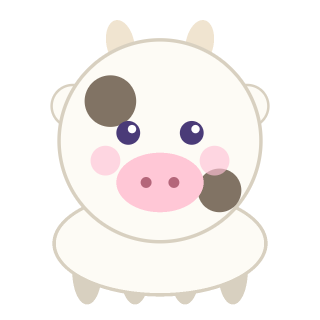
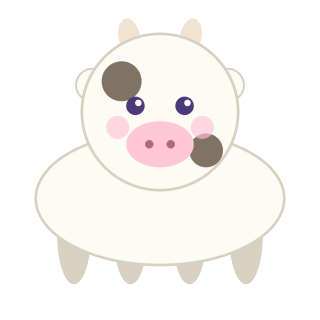
Rebalance animal head/body proportions toward plausible
Feedback: still too far from realistic - the huge head vs. tiny body
read as toy-like rather than a creature that could plausibly exist,
even accounting for the intentionally deformed/cute style.

Shrank the head (r 0.31->0.24 of canvas size) and significantly grew
the body and legs in drawQuadrupedBody() (torso width headR*1.05->1.6,
height *0.5->0.85, leg length *0.34->0.65), so the figure now reads as
a properly-proportioned animal with a face on top, rather than a giant
head with a token body stub underneath. Still stylized/rounded, just
with a head:body ratio that feels believable.

Regenerated all 9 animal PNGs. Bumped sw.js CACHE_VERSION to v29.

Changed region(s): [[0.0938, 0.0625, 0.9062, 0.9688], [0.8438, 0.5312, 0.875, 0.5625], [0.125, 0.5312, 0.1562, 0.5625]]

diff --git a/tools/generate-animals.js b/tools/generate-animals.js
@@ -42,16 +42,20 @@ function drawBlush(cv, cx, cy, r, color = '#FFB0C8') {
 // used for the mascot cast (tools/generate-characters.js) - the mascots are
 // guide characters that make sense standing like a person, but the animal
 // roster should look like actual animals (a sheep standing on four legs,
-// not a sheep standing on two). Legs are drawn first so the torso overlaps
-// their tops and only the lower "foot" ends peek out below the body.
+// not a sheep standing on two). Proportioned so the head no longer
+// dominates the whole figure - still a deformed/cute style, but closer to
+// a head:body ratio a real animal could plausibly have, per feedback that
+// the earlier huge-head/tiny-body look read as a toy rather than a
+// creature. Legs are drawn first so the torso overlaps their tops and only
+// the lower "foot" ends peek out below the body.
 function drawQuadrupedBody(cv, cx, headCy, headR, bodyColor, outlineColor, footColor) {
-  const neckY = headCy + headR * 0.76;
-  const bodyRx = headR * 1.05;
-  const bodyRy = headR * 0.5;
-  const bodyCy = neckY + bodyRy * 0.55;
+  const neckY = headCy + headR * 0.7;
+  const bodyRx = headR * 1.6;
+  const bodyRy = headR * 0.85;
+  const bodyCy = neckY + bodyRy * 0.5;
 
-  const legRx = headR * 0.15;
-  const legRy = headR * 0.34;
+  const legRx = headR * 0.22;
+  const legRy = headR * 0.65;
   const legCy = bodyCy + bodyRy * 0.55;
   [-0.7, -0.24, 0.24, 0.7].forEach((fx) => {
     fillEllipse(cv, cx + fx * bodyRx, legCy, legRx, legRy, 0, footColor);
@@ -65,7 +69,7 @@ function drawQuadrupedBody(cv, cx, headCy, headR, bodyColor, outlineColor, footC
 
 function drawDog(size) {
   const cv = makeCanvas(size, size);
-  const cx = size * 0.5, cy = size * 0.44, r = size * 0.31;
+  const cx = size * 0.5, cy = size * 0.35, r = size * 0.24;
   const fur = '#E8B372', outline = '#C9925A', earColor = '#C9925A', snoutColor = '#FBEBD8';
 
   drawQuadrupedBody(cv, cx, cy, r, fur, outline, outline);
@@ -86,7 +90,7 @@ function drawDog(size) {
 
 function drawCat(size) {
   const cv = makeCanvas(size, size);
-  const cx = size * 0.5, cy = size * 0.44, r = size * 0.31;
+  const cx = size * 0.5, cy = size * 0.35, r = size * 0.24;
   const fur = '#FFEFD9', outline = '#E9C9A0', patch = '#F4A94F';
 
   drawQuadrupedBody(cv, cx, cy, r, fur, outline, outline);
@@ -118,7 +122,7 @@ function drawCat(size) {
 
 function drawCow(size) {
   const cv = makeCanvas(size, size);
-  const cx = size * 0.5, cy = size * 0.44, r = size * 0.31;
+  const cx = size * 0.5, cy = size * 0.35, r = size * 0.24;
   const fur = '#FDFBF5', outline = '#D8D0C0', patch = '#6B5B4A', snoutColor = '#FFC7D6', hornColor = '#F0E4D0';
 
   drawQuadrupedBody(cv, cx, cy, r, fur, outline, outline);
@@ -143,7 +147,7 @@ function drawCow(size) {
 
 function drawFrog(size) {
   const cv = makeCanvas(size, size);
-  const cx = size * 0.5, cy = size * 0.46, r = size * 0.31;
+  const cx = size * 0.5, cy = size * 0.37, r = size * 0.24;
   const skin = '#8BC34A', outline = '#5E8F2E', belly = '#DFF3BC';
 
   drawQuadrupedBody(cv, cx, cy, r, skin, outline, outline);
@@ -165,7 +169,7 @@ function drawFrog(size) {
 
 function drawPig(size) {
   const cv = makeCanvas(size, size);
-  const cx = size * 0.5, cy = size * 0.44, r = size * 0.31;
+  const cx = size * 0.5, cy = size * 0.35, r = size * 0.24;
   const fur = '#FFB3C6', outline = '#E8899E', snoutColor = '#FF8FA8';
 
   drawQuadrupedBody(cv, cx, cy, r, fur, outline, outline);
@@ -187,7 +191,7 @@ function drawPig(size) {
 
 function drawChicken(size) {
   const cv = makeCanvas(size, size);
-  const cx = size * 0.5, cy = size * 0.44, r = size * 0.31;
+  const cx = size * 0.5, cy = size * 0.35, r = size * 0.24;
   const feather = '#FFF6E6', outline = '#E8DCC0', comb = '#FF6B5B', beak = '#F4A94F';
 
   drawQuadrupedBody(cv, cx, cy, r, feather, outline, beak);
@@ -204,7 +208,7 @@ function drawChicken(size) {
 
 function drawLion(size) {
   const cv = makeCanvas(size, size);
-  const cx = size * 0.5, cy = size * 0.44, r = size * 0.31;
+  const cx = size * 0.5, cy = size * 0.35, r = size * 0.24;
   const fur = '#F2B84B', outline = '#D89A2E', mane = '#E08A2E', snoutColor = '#FBEBD8';
 
   drawQuadrupedBody(cv, cx, cy, r, fur, outline, outline);
@@ -229,7 +233,7 @@ function drawLion(size) {
 
 function drawElephant(size) {
   const cv = makeCanvas(size, size);
-  const cx = size * 0.5, cy = size * 0.44, r = size * 0.31;
+  const cx = size * 0.5, cy = size * 0.35, r = size * 0.24;
   const fur = '#C3CAD3', outline = '#9AA5B0';
 
   drawQuadrupedBody(cv, cx, cy, r, fur, outline, outline);
@@ -256,7 +260,7 @@ function drawElephant(size) {
 
 function drawSheep(size) {
   const cv = makeCanvas(size, size);
-  const cx = size * 0.5, cy = size * 0.44, r = size * 0.31;
+  const cx = size * 0.5, cy = size * 0.35, r = size * 0.24;
   const wool = '#FDFBF5', woolOutline = '#E4DED0', face = '#8D7B6B', faceOutline = '#6E5E50';
 
   drawQuadrupedBody(cv, cx, cy, r, wool, woolOutline, faceOutline);

diff --git a/sw.js b/sw.js
@@ -2,7 +2,7 @@
 // (the whole point: this app is meant to be used out and about).
 // Paths are relative to this file's own location, so it works whether the
 // site is hosted at a domain root or a GitHub Pages project subpath.
-const CACHE_VERSION = 'v28';
+const CACHE_VERSION = 'v29';
 const CACHE_NAME = `asobibako-${CACHE_VERSION}`;
 
 const PRECACHE_URLS = [
